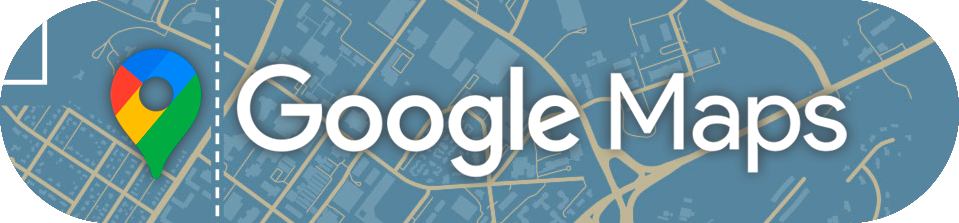
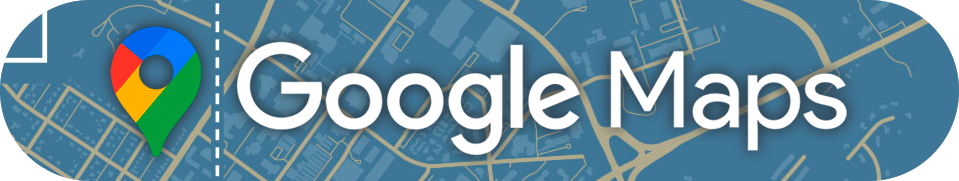
Update rounded location button assets

diff --git a/public/propiedad.html b/public/propiedad.html
@@ -411,17 +411,14 @@
     display: block;
     cursor: pointer;
     overflow: hidden;
+    border-radius: 999px;
     transition: transform 0.2s, box-shadow 0.2s;
   }
   .mapa-action-btn:hover {
     transform: translateY(-1px);
     box-shadow: 0 10px 24px rgba(15, 23, 42, 0.12);
   }
-  .mapa-action-google {
-    border-radius: 30px;
-  }
   .mapa-action-waze {
-    border-radius: 0;
     margin-top: 1rem;
   }
   .mapa-action-img {
